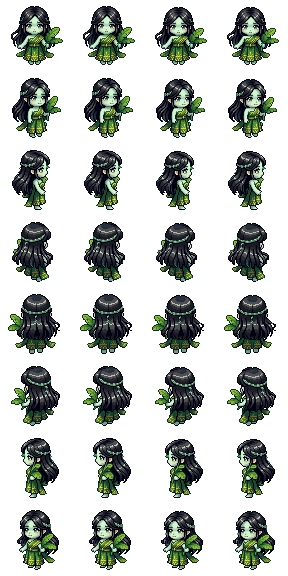
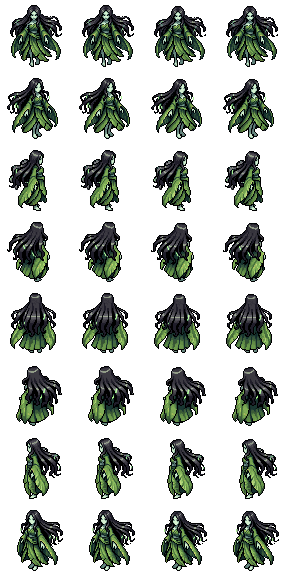
ตัวละคร/ผีสไตล์สมจริงแนว Ragnarok (PixelLab) เดินครบ 8 ทิศ
- Replace chibi sprites with realistic-proportion PixelLab characters: hero_male_mohom, hero_female_ruenton, mob_nang_tani, mob_kuman_thong (5 generated walk directions + 3 mirrored)
- import_pixellab.py v2: per-animation sheets (<prefix>__rot / __<anim>.png), maps PixelLab animation names to walk/attack/cast/hit/die, frame counts saved in manifest
- TopDownScene registers 8-dir animations using the manifest's real frame counts

Claude-Session: https://claude.ai/code/session_019fMb1LJfrrzNB55xtsXcpM

diff --git a/client/js/scenes/TopDownScene.js b/client/js/scenes/TopDownScene.js
@@ -61,6 +61,13 @@ export class TopDownScene extends Phaser.Scene {
   }
 
   create({ char }) {
+    // ภาพ 8 ทิศจาก manifest (จำนวนเฟรมจริงของแต่ละท่า) ก่อน แล้วค่อยใช้ค่าตั้งต้นจากแผน asset
+    const RATE = { idle: [5, true], walk: [10, true], attack: [14, false], cast: [12, false], hit: [12, false], die: [8, false] };
+    for (const [id, m] of Object.entries(this.d8meta || {})) {
+      const anims = {};
+      for (const a of m.anims) { const [rate, loop] = RATE[a] || [10, false]; anims[a] = { frames: m.frames?.[a] || (a === 'idle' ? 4 : 6), rate, loop }; }
+      registerDir8(this, { id, anims });
+    }
     for (const a of ALL_ASSETS) if (a.anims) registerDir8(this, { id: a.id, anims: a.anims });
     this.td = true;
     this.sfx = sound; this.settings = loadSettings(); document.body.classList.add('td-mode'); this.sfx.applySettings(this.settings);

diff --git a/tools/import_pixellab.py b/tools/import_pixellab.py
@@ -1,81 +1,142 @@
 #!/usr/bin/env python3
 """
-แปลงชีต PixelLab (ที่ดาวน์โหลดจากเว็บ: แถว 0 = ภาพหมุน 8 ทิศ, แถว 1..8 = walk ตามลำดับ DIRS)
-→ assets/td/<id>/idle.png (8 แถว × 4 เฟรม) และ walk.png (8 แถว × 6 เฟรม) + อัปเดต manifest.json
+นำภาพ PixelLab เข้าเกม → client/assets/td/<id>/<anim>.png (8 แถว = 8 ทิศ) + manifest.json
 
-ใช้:  python3 tools/import_pixellab.py <sheet.png> <id> [scale]
- - ทิศที่ยังไม่มีท่าเดิน → กลับด้านจากทิศตรงข้ามซ้าย/ขวา (east↔west, NE↔NW, SE↔SW)
- - ถ้ายังไม่มีอีก → ใช้ภาพหมุนนิ่ง + ขยับขึ้นลงเล็กน้อย (ให้เล่นได้ก่อน ค่อยเจนเพิ่มทีหลัง)
+แบบใหม่ (หลายท่า):  python3 tools/import_pixellab.py <โฟลเดอร์> <prefix> <id> [scale]
+   ไฟล์ในโฟลเดอร์: <prefix>__rot.png (1×8 ภาพหมุน) และ <prefix>__<ชื่อท่า PixelLab>.png (8 แถว × n เฟรม)
+แบบเดิม (ชีตเดียว): python3 tools/import_pixellab.py <sheet.png> <id> [scale]
+   แถว 0 = ภาพหมุน 8 ทิศ, แถว 1..8 = walk
+
+ - ทิศที่ไม่มี → กลับด้านจากทิศตรงข้าม (east↔west, NE↔NW, SE↔SW)
+ - walk ที่ไม่มีทั้งทิศ → ภาพหมุนนิ่ง + ขยับ · ท่าอื่นที่ไม่มีทิศ → ใช้ทิศใกล้สุดที่มี
 """
-import json, os, sys
+import glob, json, os, re, sys
 from PIL import Image, ImageOps
 
 DIRS = ['south', 'south-east', 'east', 'north-east', 'north', 'north-west', 'west', 'south-west']
 MIRROR = {'west': 'east', 'east': 'west', 'north-west': 'north-east', 'north-east': 'north-west',
           'south-west': 'south-east', 'south-east': 'south-west'}
-OUT = 72          # ขนาดเฟรมผลลัพธ์ (ตัวละคร ~60px อยู่กลางเฟรม)
-WALK_N, IDLE_N = 6, 4
+NEAR = {'north-west': ['north', 'west'], 'south-west': ['south', 'west'], 'west': ['south-west', 'north-west', 'south'],
+        'north-east': ['north', 'east'], 'south-east': ['south', 'east'], 'east': ['south-east', 'north-east', 'south'],
+        'north': ['north-east', 'north-west', 'south'], 'south': ['south-east', 'south-west', 'east']}
+# ชื่อท่า PixelLab → ชื่อท่าในเกม
+ANIM_MAP = [(r'^walk', 'walk'), (r'punch|jab|uppercut|kick|slash|attack|strike', 'attack'), (r'fireball|cast|spell', 'cast'),
+            (r'death|die|dying', 'die'), (r'taking|hurt|hit', 'hit'), (r'^idle|breath', 'idle_anim')]
+OUT = 72
 ROOT = os.path.join(os.path.dirname(__file__), '..', 'client', 'assets', 'td')
 
 
-def cell(im, C, col, row):
-    """ตัดเฟรมจากชีต แล้วครอบกลางให้เหลือ OUT×OUT"""
-    c = im.crop((col * C, row * C, col * C + C, row * C + C))
+def crop(c):
+    """ครอบกลางเฟรมให้เหลือ OUT×OUT"""
     if not c.getbbox():
         return None
-    o = (C - OUT) // 2
+    C = c.width; o = (C - OUT) // 2
     if o >= 0:
         return c.crop((o, o, o + OUT, o + OUT))
     pad = Image.new('RGBA', (OUT, OUT)); pad.alpha_composite(c, (-o, -o)); return pad
 
 
 def bob(fr, dy):
-    """ยุบ/ยืดตัวเล็กน้อยโดยยึดเท้า (ใช้ทำ idle หายใจ / เดินสำรอง)"""
-    if dy == 0:
+    if dy == 0 or not fr.getbbox():
         return fr
-    b = fr.getbbox()
-    if not b:
-        return fr
-    x0, y0, x1, y1 = b
-    body = fr.crop(b).resize((x1 - x0, max(1, y1 - y0 - dy)), Image.NEAREST)
+    x0, y0, x1, y1 = fr.getbbox()
+    body = fr.crop((x0, y0, x1, y1)).resize((x1 - x0, max(1, y1 - y0 - dy)), Image.NEAREST)
     out = Image.new('RGBA', fr.size); out.alpha_composite(body, (x0, y0 + dy)); return out
 
 
-def main(src, sid, scale=None):
-    im = Image.open(src).convert('RGBA')
-    C = im.width // 8
-    rot = {d: cell(im, C, i, 0) for i, d in enumerate(DIRS)}
-    walk = {}
-    for i, d in enumerate(DIRS):
-        fr = [cell(im, C, k, i + 1) for k in range(WALK_N)]
-        if all(fr):
-            walk[d] = fr
-    real = sorted(walk)
-    for d in DIRS:                                    # กลับด้านจากทิศตรงข้าม
-        if d not in walk and MIRROR.get(d) in real:
-            walk[d] = [ImageOps.mirror(f) for f in walk[MIRROR[d]]]
-    for d in DIRS:                                    # สำรอง: ภาพนิ่ง + ขยับ
-        if d not in walk:
-            walk[d] = [bob(rot[d], v) for v in (0, 1, 2, 1, 0, 1)]
+def fill_dirs(frames, rot, is_walk):
+    """frames: {dir: [img...]} → ครบ 8 ทิศ"""
+    real = sorted(frames)
+    for d in DIRS:
+        if d not in frames and MIRROR.get(d) in real:
+            frames[d] = [ImageOps.mirror(f) for f in frames[MIRROR[d]]]
+    for d in DIRS:
+        if d in frames:
+            continue
+        if is_walk:
+            frames[d] = [bob(rot[d], v) for v in (0, 1, 2, 1, 0, 1)]
+        else:
+            src = next((n for n in NEAR[d] if n in frames), None) or next(iter(frames))
+            frames[d] = frames[src]
+    return real
+
+
+def write(sid, anims, rot, scale):
     os.makedirs(os.path.join(ROOT, sid), exist_ok=True)
-    idle = Image.new('RGBA', (OUT * IDLE_N, OUT * 8))
-    wk = Image.new('RGBA', (OUT * WALK_N, OUT * 8))
+    counts = {}
+    idle = Image.new('RGBA', (OUT * 4, OUT * 8))
     for r, d in enumerate(DIRS):
         for k, v in enumerate((0, 0, 1, 1)):
             idle.alpha_composite(bob(rot[d], v), (k * OUT, r * OUT))
-        for k, f in enumerate(walk[d]):
-            wk.alpha_composite(f, (k * OUT, r * OUT))
-    idle.save(os.path.join(ROOT, sid, 'idle.png'), optimize=True)
-    wk.save(os.path.join(ROOT, sid, 'walk.png'), optimize=True)
+    idle.save(os.path.join(ROOT, sid, 'idle.png'), optimize=True); counts['idle'] = 4
+    for name, frames in anims.items():
+        n = max(len(f) for f in frames.values())
+        sh = Image.new('RGBA', (OUT * n, OUT * 8))
+        for r, d in enumerate(DIRS):
+            for k, f in enumerate(frames[d]):
+                sh.alpha_composite(f, (k * OUT, r * OUT))
+        sh.save(os.path.join(ROOT, sid, f'{name}.png'), optimize=True); counts[name] = n
     mp = os.path.join(ROOT, 'manifest.json')
     man = json.load(open(mp)) if os.path.exists(mp) else {'sprites': {}, 'images': []}
-    ent = {'anims': ['idle', 'walk'], 'frame': OUT}
-    if scale:
-        ent['scale'] = float(scale)
+    old = man['sprites'].get(sid, {})
+    ent = {'anims': list(counts), 'frames': counts, 'frame': OUT}
+    sc = scale or (old.get('scale') if isinstance(old, dict) else None)
+    if sc:
+        ent['scale'] = float(sc)
     man['sprites'][sid] = ent
     json.dump(man, open(mp, 'w'), ensure_ascii=False, indent=1)
-    print(f'{sid}: walk จริง {real} · กลับด้าน {[d for d in DIRS if d not in real and MIRROR.get(d) in real]}')
+
+
+def game_name(pl):
+    for pat, g in ANIM_MAP:
+        if re.search(pat, pl):
+            return g
+    return None
+
+
+def from_folder(folder, prefix, sid, scale=None):
+    rs = Image.open(os.path.join(folder, f'{prefix}__rot.png')).convert('RGBA'); C = rs.width // 8
+    rot = {d: crop(rs.crop((i * C, 0, i * C + C, C))) for i, d in enumerate(DIRS)}
+    anims, report = {}, []
+    for f in sorted(glob.glob(os.path.join(folder, f'{prefix}__*.png'))):
+        pl = os.path.basename(f)[len(prefix) + 2:-4]
+        g = game_name(pl)
+        if pl == 'rot' or not g or g in anims:
+            continue
+        im = Image.open(f).convert('RGBA'); C = im.height // 8; n = im.width // C
+        frames = {}
+        for i, d in enumerate(DIRS):
+            fr = [crop(im.crop((k * C, i * C, k * C + C, i * C + C))) for k in range(n)]
+            fr = [x for x in fr if x]
+            if fr:
+                frames[d] = fr
+        if not frames:
+            continue
+        real = fill_dirs(frames, rot, g == 'walk')
+        anims[g] = frames; report.append(f'{g}({pl}) จริง {real}')
+    if 'walk' not in anims:
+        anims['walk'] = {}; fill_dirs(anims['walk'], rot, True)
+    anims.pop('idle_anim', None)
+    write(sid, anims, rot, scale)
+    print(sid, '·', ' | '.join(report))
+
+
+def from_sheet(src, sid, scale=None):
+    im = Image.open(src).convert('RGBA'); C = im.width // 8
+    rot = {d: crop(im.crop((i * C, 0, i * C + C, C))) for i, d in enumerate(DIRS)}
+    walk = {}
+    for i, d in enumerate(DIRS):
+        fr = [crop(im.crop((k * C, (i + 1) * C, k * C + C, (i + 2) * C))) for k in range(6)]
+        if all(fr):
+            walk[d] = fr
+    real = fill_dirs(walk, rot, True)
+    write(sid, {'walk': walk}, rot, scale)
+    print(sid, '· walk จริง', real)
 
 
 if __name__ == '__main__':
-    main(*sys.argv[1:])
+    a = sys.argv[1:]
+    if os.path.isdir(a[0]):
+        from_folder(*a)
+    else:
+        from_sheet(*a)
